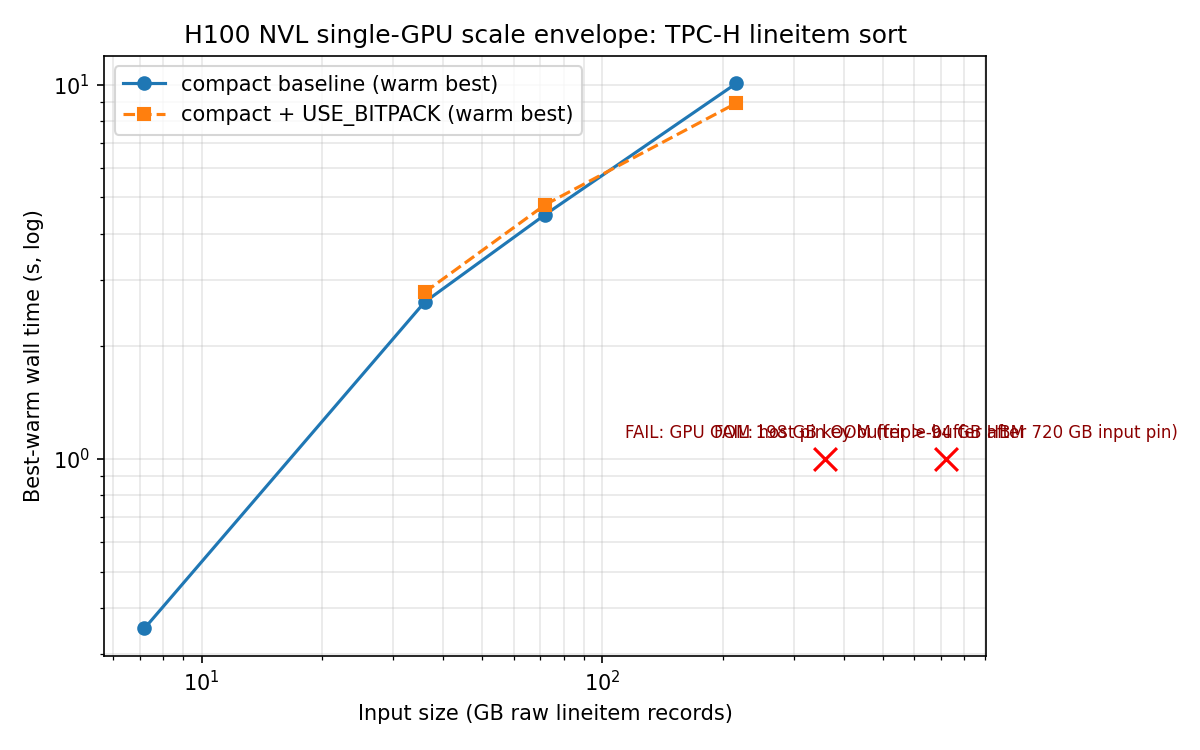
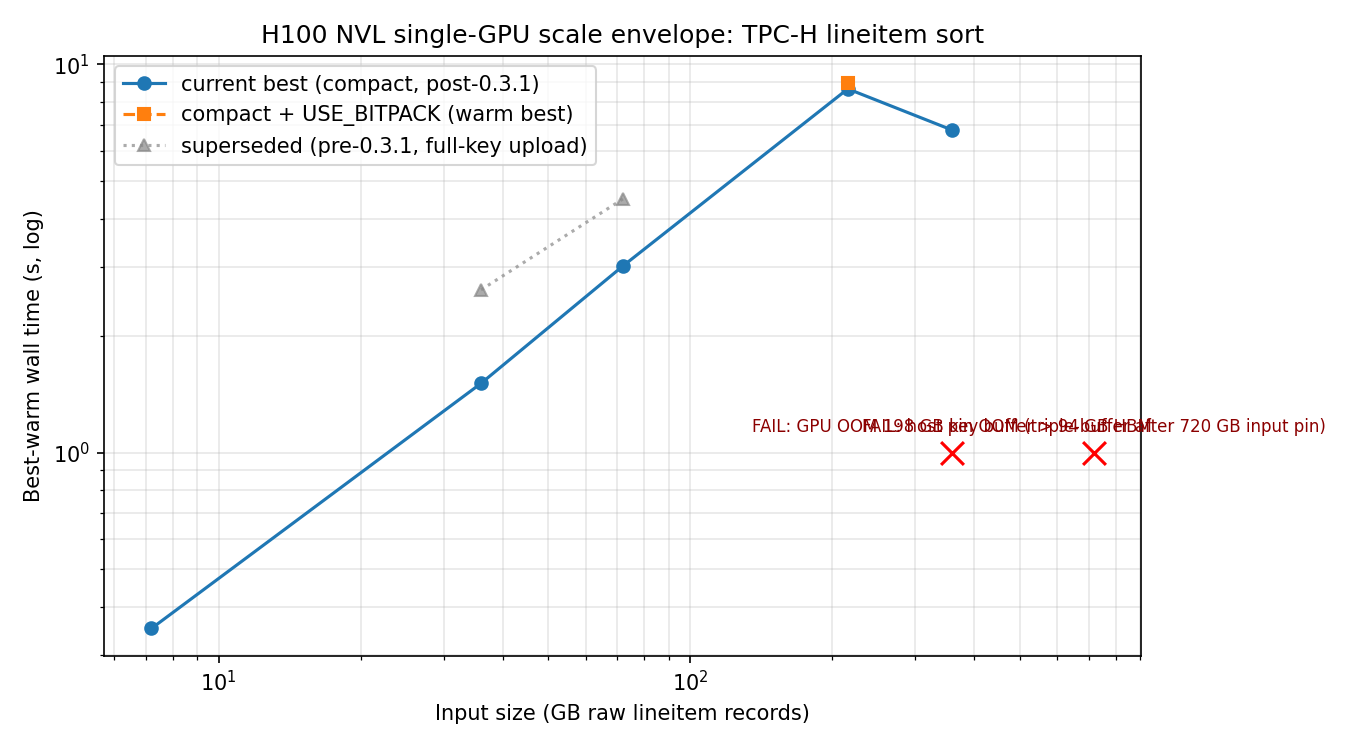
h100/1.7: re-render envelope chart with post-0.3.1 SF50/100 + 4-GPU SF500 [PASS]

diff --git a/results/h100_runs/1.7_plot.py b/results/h100_runs/1.7_plot.py
@@ -22,9 +22,12 @@ def load_rows():
         return [r for r in csv.DictReader(f)]
 
 def plot_walltime(rows):
-    fig, ax = plt.subplots(figsize=(8, 5))
-    base = [r for r in rows if r["config"] == "compact_baseline" and r["status"] == "PASS"]
+    fig, ax = plt.subplots(figsize=(9, 5))
+    # Modern path: compact_post031 wins at SF50/100; compact_baseline at SF10/300+
+    base = [r for r in rows if r["config"] in ("compact_baseline", "compact_post031", "compact_4gpu")
+            and r["status"] == "PASS"]
     bp   = [r for r in rows if r["config"] == "compact_bitpack"  and r["status"] == "PASS"]
+    pre031 = [r for r in rows if r["config"] in ("compact_pre031",) and r["status"] == "SUPERSEDED"]
     fail = [r for r in rows if r["status"] == "FAIL"]
 
     bx = [float(r["gb"]) for r in base]
@@ -32,8 +35,13 @@ def plot_walltime(rows):
     pbx = [float(r["gb"]) for r in bp]
     pby = [float(r["best_warm_ms"]) / 1000.0 for r in bp]
 
-    ax.plot(bx, by, "o-", color="#1f77b4", label="compact baseline (warm best)")
+    ax.plot(bx, by, "o-", color="#1f77b4", label="current best (compact, post-0.3.1)")
     ax.plot(pbx, pby, "s--", color="#ff7f0e", label="compact + USE_BITPACK (warm best)")
+    if pre031:
+        prex = [float(r["gb"]) for r in pre031]
+        prey = [float(r["best_warm_ms"]) / 1000.0 for r in pre031]
+        ax.plot(prex, prey, "^:", color="#888888", alpha=0.7,
+                label="superseded (pre-0.3.1, full-key upload)")
 
     for r in fail:
         gb = float(r["gb"])
@@ -56,9 +64,11 @@ def plot_walltime(rows):
     print(f"wrote {out}")
 
 def plot_throughput(rows):
-    fig, ax = plt.subplots(figsize=(8, 5))
-    base = [r for r in rows if r["config"] == "compact_baseline" and r["status"] == "PASS"]
+    fig, ax = plt.subplots(figsize=(9, 5))
+    base = [r for r in rows if r["config"] in ("compact_baseline", "compact_post031", "compact_4gpu")
+            and r["status"] == "PASS"]
     bp   = [r for r in rows if r["config"] == "compact_bitpack"  and r["status"] == "PASS"]
+    pre031 = [r for r in rows if r["config"] in ("compact_pre031",) and r["status"] == "SUPERSEDED"]
     fail = [r for r in rows if r["status"] == "FAIL"]
 
     bx = [float(r["gb"]) for r in base]
@@ -66,8 +76,13 @@ def plot_throughput(rows):
     pbx = [float(r["gb"]) for r in bp]
     pby = [float(r["best_warm_gb_per_s"]) for r in bp]
 
-    ax.plot(bx, by, "o-", color="#1f77b4", label="compact baseline")
+    ax.plot(bx, by, "o-", color="#1f77b4", label="current best (compact, post-0.3.1)")
     ax.plot(pbx, pby, "s--", color="#ff7f0e", label="compact + USE_BITPACK")
+    if pre031:
+        prex = [float(r["gb"]) for r in pre031]
+        prey = [float(r["best_warm_gb_per_s"]) for r in pre031]
+        ax.plot(prex, prey, "^:", color="#888888", alpha=0.7,
+                label="superseded (pre-0.3.1)")
 
     for r in fail:
         gb = float(r["gb"])
